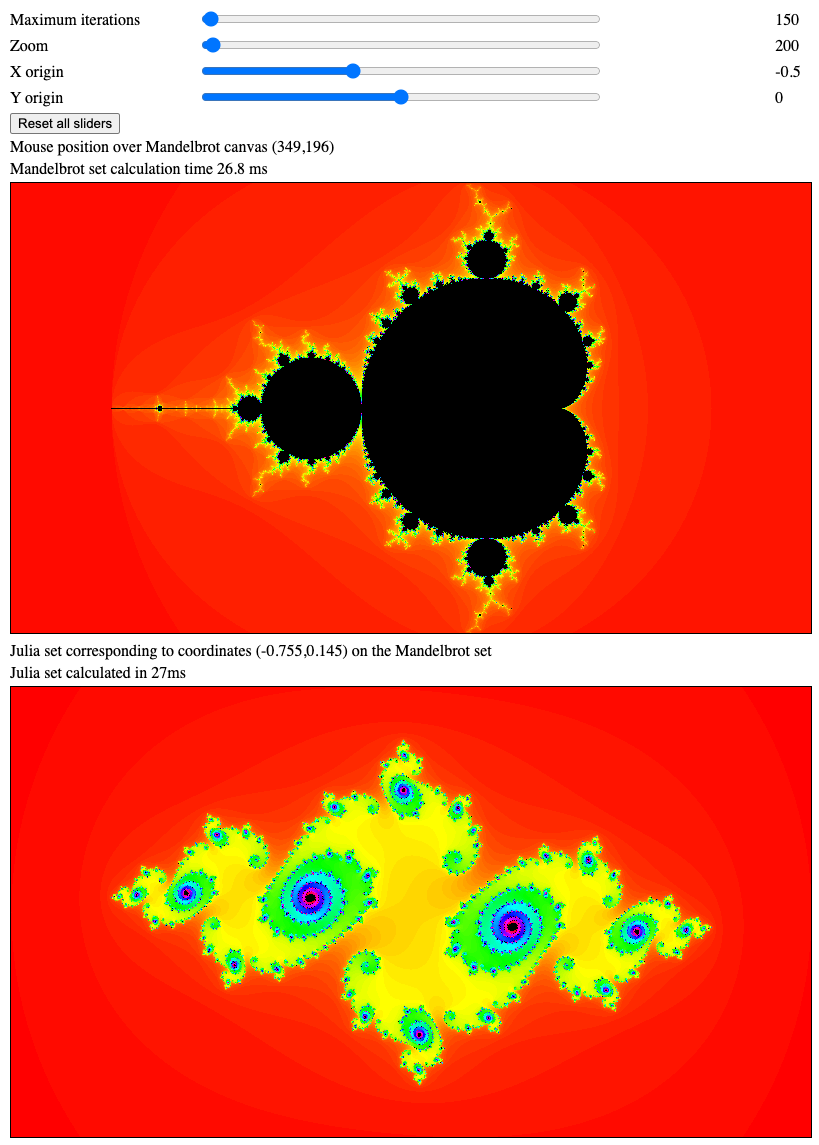
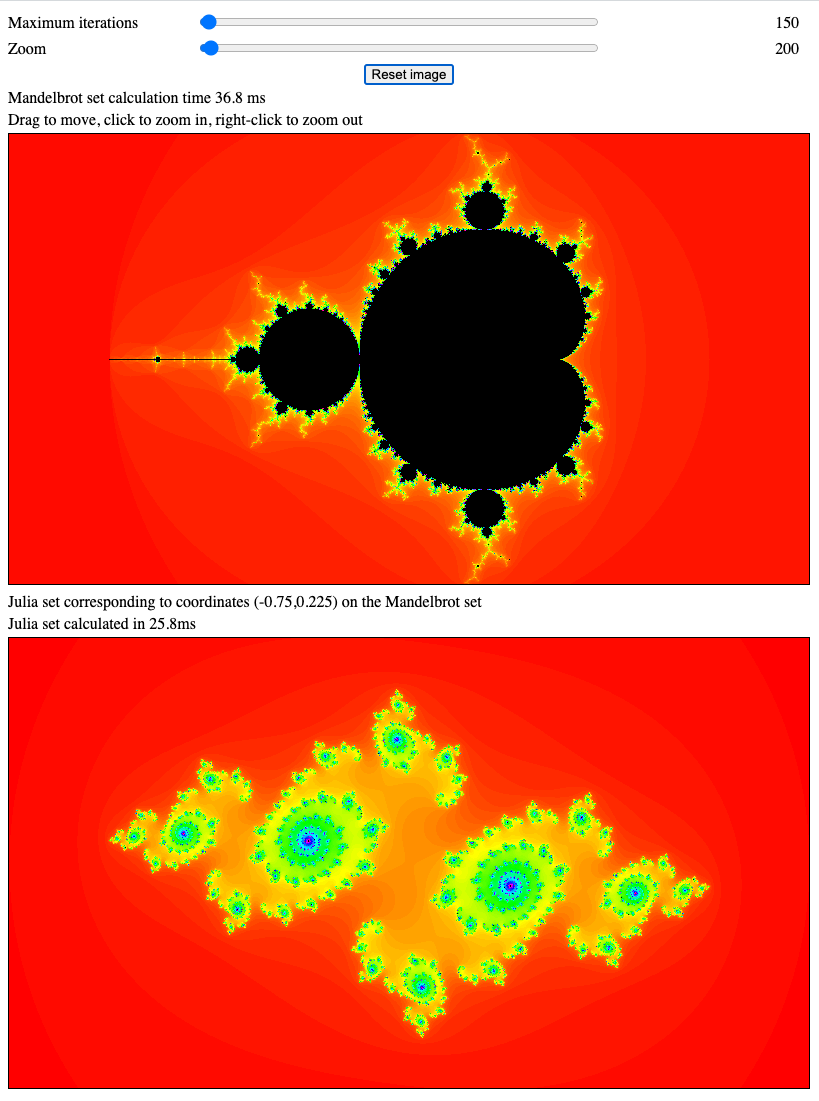
Update screen shot

Changed region(s): [[0.0, 0.0, 1.0, 1.0], [0.9463, 0.0, 0.9768, 0.0926]]

diff --git a/index.html b/index.html
@@ -99,21 +99,39 @@ const mouse_track = evt => {
 }
 
 // Mouse up and down events within the Mandelbrot set
-const mouse_down        = _ => drag_active = true
-const mouse_up          = _ => drag_active = false
-const mouse_left_click  = _ => {
-  let zoom_slider = $id("zoom")
+const mouse_down  = _ => drag_active = true
+const mouse_up    = _ => drag_active = false
 
-  if (zoom_slider.value + DEFAULT_ZOOM_STEP <= zoom_slider.max) {
-    img_params.zoom.currentValue += DEFAULT_ZOOM_STEP
-    mandelbrot.zoom += DEFAULT_ZOOM_STEP
+const mouse_left_click = evt => {
+  if (!drag_active) {
+    let zoom_slider = $id("zoom")
+    let max = parseInt(zoom_slider.max)
+    let val = parseInt(zoom_slider.value)
+    let min = parseInt(zoom_slider.min)
+
+    if (val + DEFAULT_ZOOM_STEP <= max) {
+      img_params.zoom.currentValue += DEFAULT_ZOOM_STEP
+      mandelbrot.zoom += img_params.zoom.currentValue
+      draw_fractal(mandelbrot)
+    }
   }
 }
-const mouse_right_click = _ => {
-  let zoom_slider = $id("zoom")
 
-  if (zoom_slider.value - DEFAULT_ZOOM_STEP >= zoom_slider.min)
-    mandelbrot.zoom -= DEFAULT_ZOOM_STEP
+const mouse_right_click = evt => {
+  if (!drag_active) {
+    let zoom_slider = $id("zoom")
+    let max = parseInt(zoom_slider.max)
+    let val = parseInt(zoom_slider.value)
+    let min = parseInt(zoom_slider.min)
+
+    if (val - DEFAULT_ZOOM_STEP >= min) {
+      img_params.zoom.currentValue -= DEFAULT_ZOOM_STEP
+      mandelbrot.zoom -= img_params.zoom.currentValue
+      draw_fractal(mandelbrot)
+    }
+  }
+
+  return false
 }
 
 // ---------------------------------------------------------------------------------------------------------------------
@@ -138,9 +156,12 @@ const mCanvas  = $id('mandelImage')
 mCanvas.width  = DEFAULT_CANVAS_WIDTH
 mCanvas.height = DEFAULT_CANVAS_HEIGHT
 
-mCanvas.addEventListener('mousemove', mouse_track, false)
-mCanvas.addEventListener('mousedown', mouse_down, false)
-mCanvas.addEventListener('mouseup',   mouse_up, false)
+mCanvas.addEventListener('mousemove',   mouse_track, false)
+mCanvas.addEventListener('mousedown',   mouse_down, false)
+mCanvas.addEventListener('mouseup',     mouse_up, false)
+mCanvas.addEventListener('mouseout',    mouse_up, false)
+// mCanvas.addEventListener('click',       mouse_left_click, false)
+// mCanvas.addEventListener('contextmenu', mouse_right_click, false)
 
 const mContext    = mCanvas.getContext('2d')
 const mImage      = mContext.createImageData(mCanvas.width, mCanvas.height)
@@ -200,10 +221,7 @@ const reset_img_params = sId => {
 
   // Reset slider value
   if (param_obj.hasSlider) {
-    let ui_slider = $id(sId)
-
-    ui_slider.value = param_obj.defaultValue
-
+    $id(sId).value = param_obj.defaultValue
     $id(`${sId}_txt`).innerHTML = param_obj.defaultValue
   }
 
